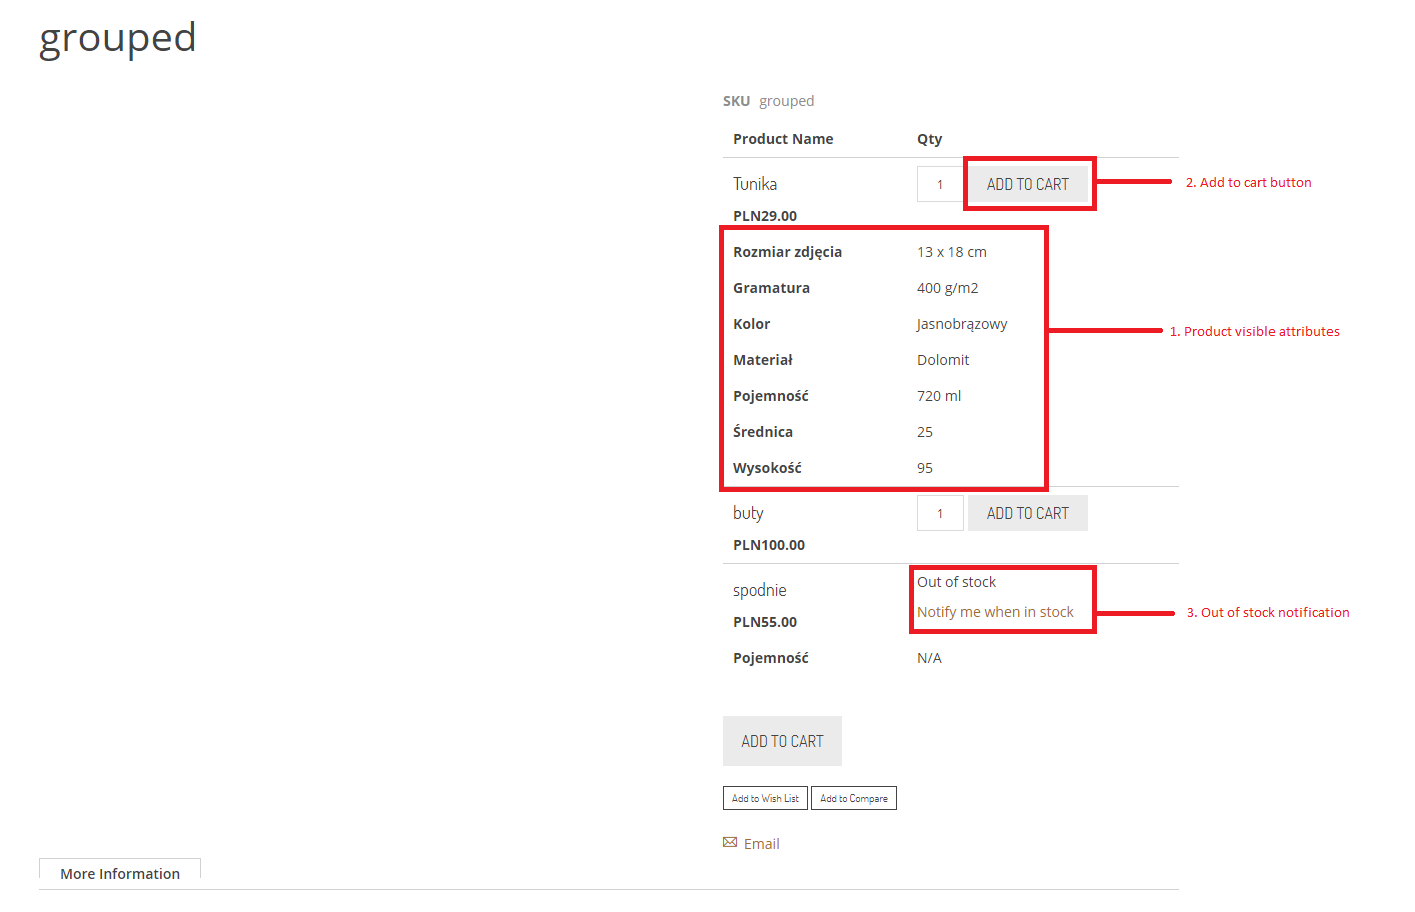
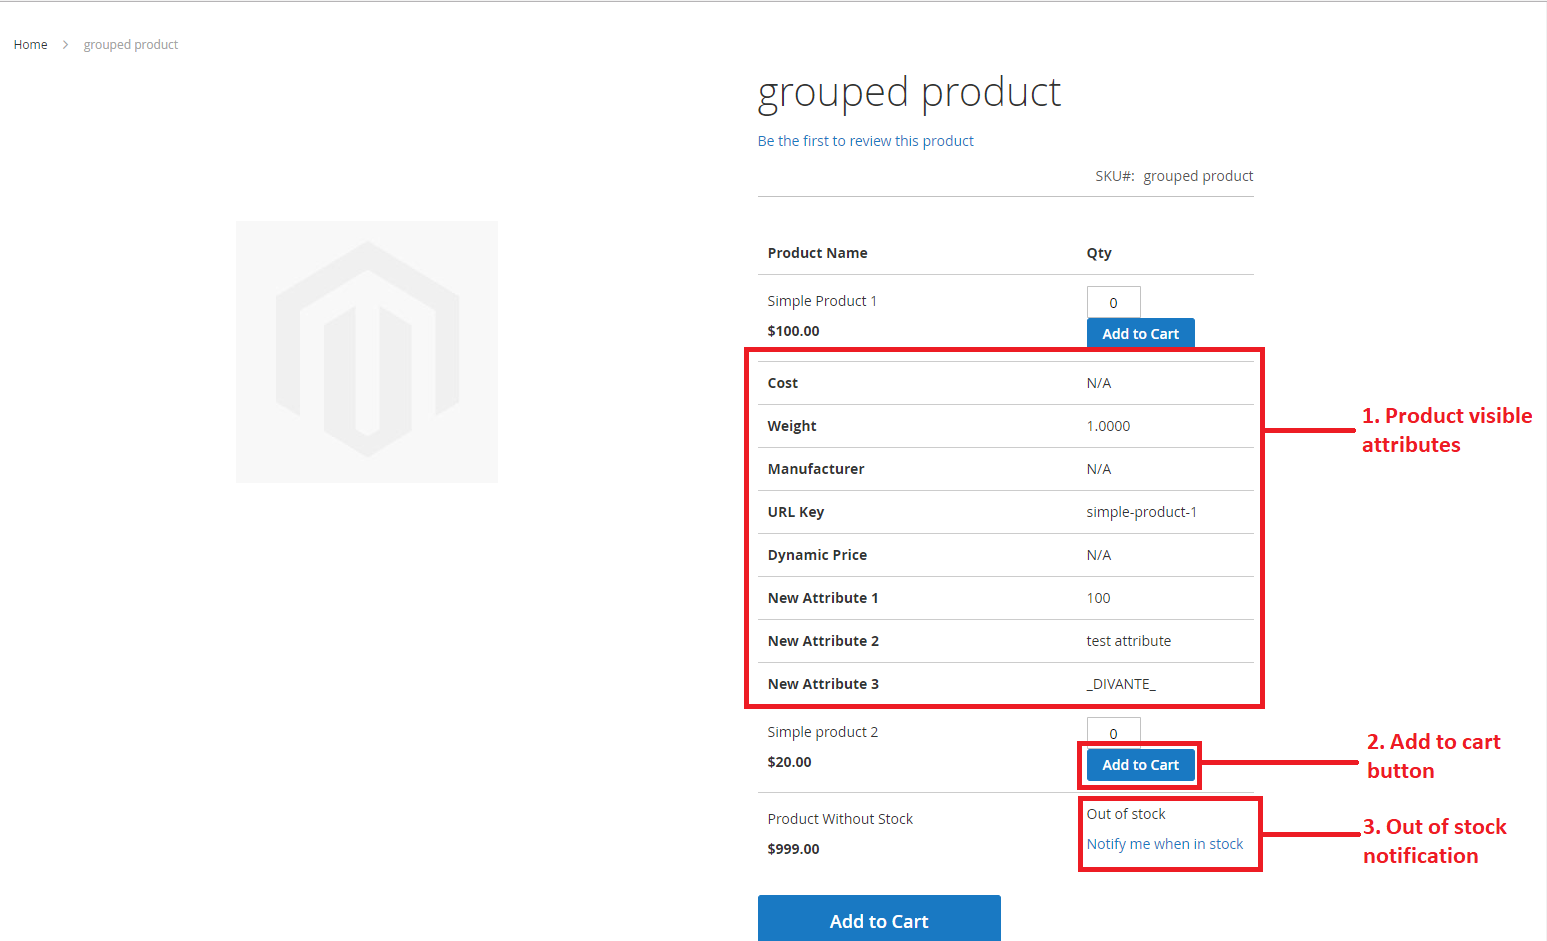
README update + attributes list extended

diff --git a/Ui/DataProvider/Product/Form/Modifier/Grouped.php b/Ui/DataProvider/Product/Form/Modifier/Grouped.php
@@ -171,17 +171,15 @@ class Grouped extends MagentoGrouped
         /** @var SearchCriteriaBuilder $searchCriteriaBuilder */
         $searchCriteriaBuilder = $this->searchCriteriaBuilderFactory->create();
 
-        $searchCriteriaBuilder->addFilter('entity_type_id', 4, 'eq')
-                              ->create();
+        $searchCriteriaBuilder->addFilter('entity_type_id', 4, 'eq')->create();
+
         $attributes = $this->eavRepository->getList('catalog_product', $searchCriteriaBuilder->create());
 
         $optionAttributes = [];
 
         /** @var \Magento\Catalog\Model\ResourceModel\Eav\Attribute $attribute */
         foreach ($attributes->getItems() as $attribute) {
-            if ((bool)$attribute->getIsVisibleOnFront()) {
-                $optionAttributes[] = ['label' => $attribute->getStoreLabel(), 'value' => $attribute->getId()];
-            }
+            $optionAttributes[] = ['label' => $attribute->getStoreLabel(), 'value' => $attribute->getId()];
         }
 
         return $optionAttributes;

diff --git a/README.md b/README.md
@@ -1,5 +1,4 @@
 # Magento 2 Grouped Products Manager
- 
 Module Grouped Products Manager adds 3 basics features for grouped products:
 
    1) It allows to show specific attributes for each simple product within grouped
@@ -12,44 +11,21 @@ Module Grouped Products Manager adds 3 basics features for grouped products:
 
    3) Adds "Notify me when in stock" link to subscribe notification when specific simple product come back to stock
 
-## Who is developing Grouped Products Manager ?
-<p align="center">
-    <a href="https://divante.co/">
-        <img height="110" src="http://oex.pl/content/uploads/2015/05/logo_Divante-1.jpg">
-    </a>
-</p>
-
-Divante has been delivering the highest quality e-commerce solutions since its inception in 2008. Our main focus is to create the most elegant and effective e-commerce services. We connect the latest technology with a great business approach.
-Visit our website for more information  <a href="https://divante.co/">Divante.co</a> 
-
 ## Compatibility
-* Module was tested on Magento 2.1.7.
+Module was tested on Magento 2.1.7.
 
-## CLI usage:
-* There is no CLI commands.
- 
-## Extensibility
-* Views or features texts/additionals could be extended in view/frontend/templates/product/view/type/grouped.phtml file.
-* Grouped class extends Magento's original block and there are additional functions for proper working. If you want. 
+## Installing/Getting started
+1) `php bin/magento setup:upgrade`
+2) `php bin/magento module:enable Divante_GroupedProductsManager`
+3) configure module in admin panel
 
-## Module API (public methods)
-* Module does not have API
- 
-## Additional information
-* Module installs 1 new attribute for grouped product "products_attributes_visibility", which contains serialized 
-attributes ids for each simple product within grouped.
-* Module contains 2 helper classes (Config and OutOfStock). Config deals with configuration part, and OutOfStock could return 
-url for out of stock notification for given product (both could be extended).
+## Features
 
-## Setup
+![front](README_MEDIA/front.png)
 
-#### Installation details
- 
-* `php bin/magento setup:upgrade`
-* `php bin/magento module:enable Divante_GroupedProductsManager`
+## Configuration
 
 #### Admin configuration
-
 go to admin panel:
 
         stores => 
@@ -59,11 +35,8 @@ go to admin panel:
  
    
  ![admin configuration](README_MEDIA/admin.png)
-    
  
-    
 #### Product attributes checker on grouped product page (admin panel)
-
 go to admin panel :
 
         products => 
@@ -71,16 +44,32 @@ go to admin panel :
                           choose grouped product => 
                                    grouped products tab
                                    
-                                   
+NOTE:
+Attributes must be `Visible on Catalog Pages on Storefront`
+
  ![visible attributes](README_MEDIA/product.png)
     
-    
-#### Features on front
+## Contributing
 
- ![front](README_MEDIA/front.png)
-    
-## License
-* The Grouped Products Manager module is licensed under the terms of the MIT license.
-    
+If you'd like to contribute, please fork the repository and use a feature branch. Pull requests are warmly welcome.
+
+## Licensing
+
+The code in this project is licensed under the MIT license.
+
 ## Standards & Code Quality
-* This module respects all Magento2 code quality rules and our own PHPCS and PHPMD rulesets.
+
+This module respects all Magento2 code quality rules and our own PHPCS and PHPMD rulesets.
+
+## About Authors
+
+
+![Divante-logo](http://divante.co/logo-HG.png "Divante")
+
+We are a Software House from Europe, existing from 2008 and employing about 150 people. Our core competencies are built around Magento, Pimcore and bespoke software projects (we love Symfony3, Node.js, Angular, React, Vue.js). We specialize in sophisticated integration projects trying to connect hardcore IT with good product design and UX.
+
+We work for Clients like INTERSPORT, ING, Odlo, Onderdelenwinkel and CDP, the company that produced The Witcher game. We develop two projects: [Open Loyalty](http://www.openloyalty.io/ "Open Loyalty") - an open source loyalty program and [Vue.js Storefront](https://github.com/DivanteLtd/vue-storefront "Vue.js Storefront").
+
+We are part of the OEX Group which is listed on the Warsaw Stock Exchange. Our annual revenue has been growing at a minimum of about 30% year on year.
+
+Visit our website [Divante.co](https://divante.co/ "Divante.co") for more information.
